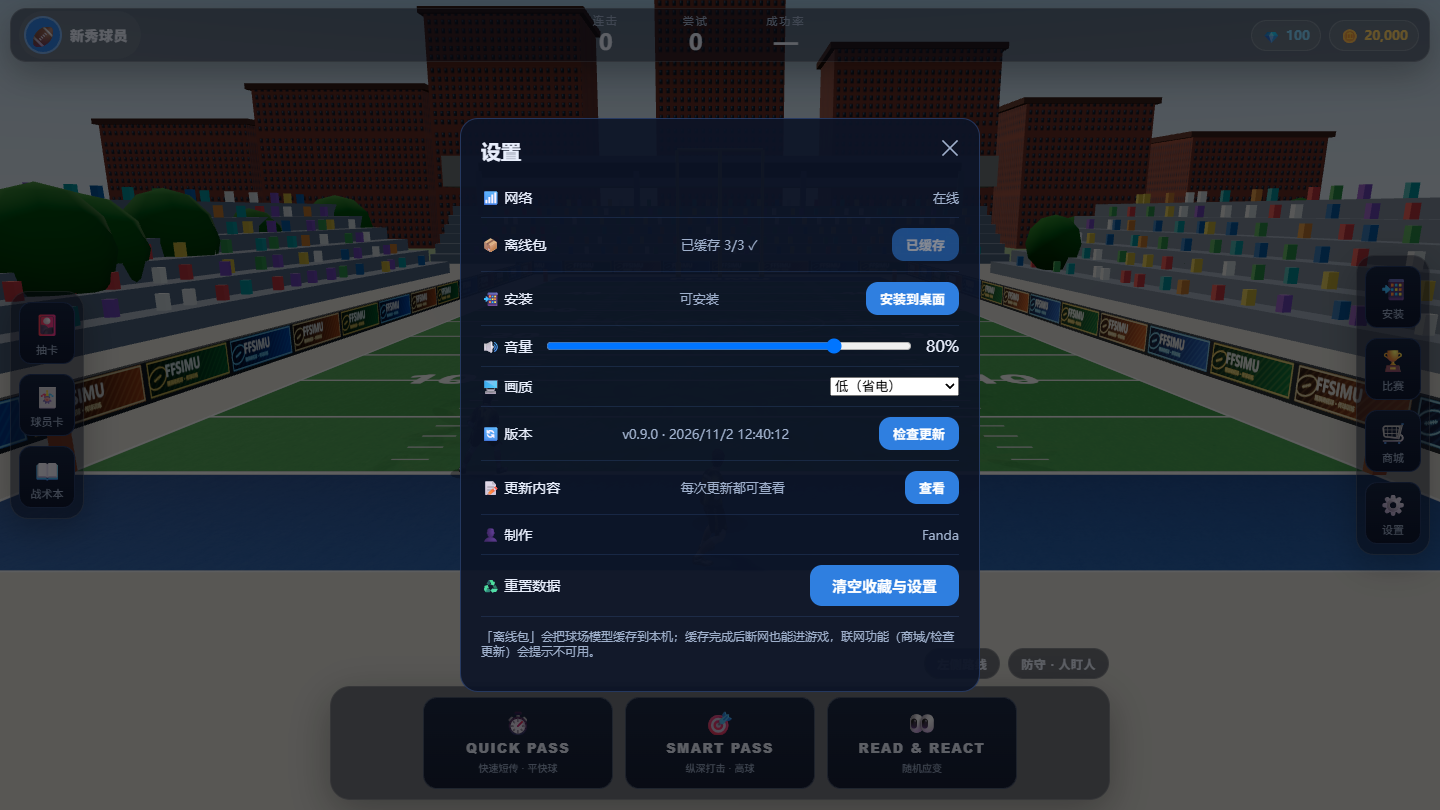
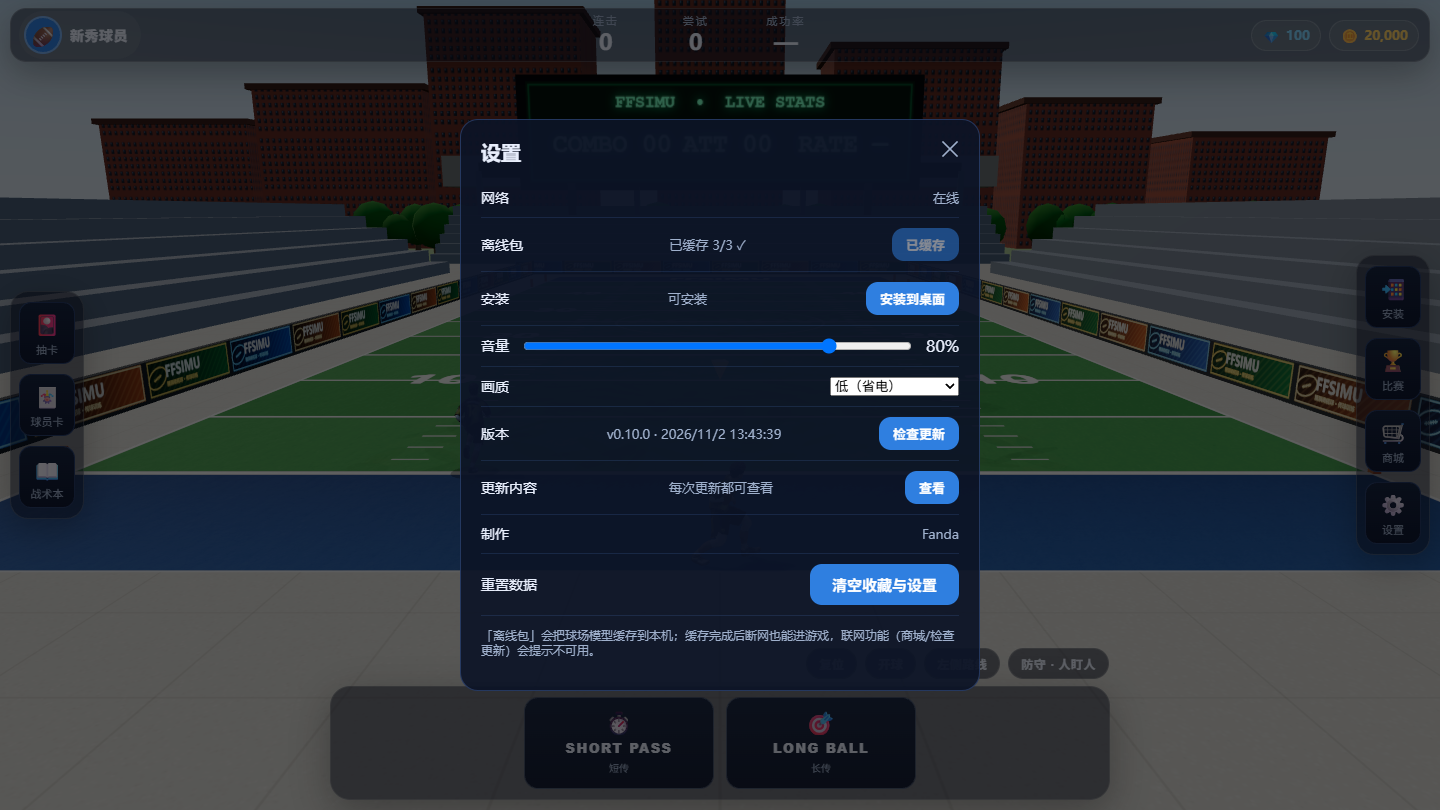
feat: v0.11.0 — 广告牌后移/阴影优化/跑步重采样/锥桶交互/动画定格/路线预览与开球起跑

diff --git a/src/main.ts b/src/main.ts
@@ -197,7 +197,7 @@ function main(): void {
       });
       if (!selectionCone) {
         selectionCone = new THREE.Mesh(
-          new THREE.ConeGeometry(0.17, 0.32, 4),
+          new THREE.ConeGeometry(0.12, 0.22, 4),
           new THREE.MeshStandardMaterial({
             color: 0xffc23a,
             emissive: 0xff8a00,
@@ -207,7 +207,7 @@ function main(): void {
           }),
         );
         selectionCone.rotation.x = Math.PI;
-        selectionCone.position.set(0, 2.62, 0);
+        selectionCone.position.set(0, 2.32, 0);
         selectionCone.castShadow = false;
         rig.group.add(selectionCone);
       }
@@ -320,9 +320,12 @@ function main(): void {
 
   let snapTimer: number | undefined;
   snapBtn.addEventListener('click', () => {
-    // 开球：中锋把球交给 QB，QB 接球后撤观察，4.5s 处停住等传球
-    const a = rigAnims.get(qb);
-    if (!a) return;
+    // 开球：WR 起跑，QB 接球后撤观察，4.5s 处停住等传球
+    if (!controller.snap()) {
+      showToast('先选一个战术，再开球');
+      return;
+    }
+    rigAnims.forEach((a) => (a.mixer.timeScale = 1));
     playClip(qb, 'Pass', { time: 0, timeScale: 1, fade: 0.15 });
     if (handBall) handBall.visible = true;
     window.clearTimeout(snapTimer);
@@ -340,6 +343,9 @@ function main(): void {
   /** 复位：球员回到初始站位并静止（不再一直循环播放待机动画） */
   function resetToStart(): void {
     controller.reset();
+    if (freezeTimer) clearTimeout(freezeTimer);
+    rigAnims.forEach((a) => (a.mixer.timeScale = 1));
+    routePreview.visible = false;
     postCatch.t = 0;
     ballSim.active = false;
     catchTriggered = false;
@@ -399,6 +405,7 @@ function main(): void {
   // ---- 状态机与事件 ----
   let totalComplete = 0;
   let resultTimer: ReturnType<typeof setTimeout> | null = null;
+  let freezeTimer: ReturnType<typeof setTimeout> | null = null;
   const wrSpeed = wrSpeedFor((DEFAULT_WR_CARD.attrs as WRAttrs).SPD);
 
   function updateHud(): void {
@@ -491,15 +498,22 @@ function main(): void {
   /** 限制在围栏内（避免接球后冲出场地） */
   function clampFence(p: THREE.Vector3): void {
     p.x = THREE.MathUtils.clamp(p.x, -15.4, 15.4);
-    p.z = THREE.MathUtils.clamp(p.z, -7.5, 58);
+    p.z = THREE.MathUtils.clamp(p.z, -7.5, 56);
   }
 
-  /** 让跑步动画的步频跟移动速度匹配，减少「滑步/断续」感 */
+  /**
+   * 跑步动画按速度重采样：每个循环前进约 2.6 码，
+   * 由速度反推播放倍率，脚部与地面位移对齐（减少滑步）。
+   */
   function syncRunSpeed(): void {
     const a = rigAnims.get(wr);
     if (!a) return;
     const key = Object.keys(a.actions).find((n) => n.toLowerCase().includes('run'));
-    if (key) a.actions[key].timeScale = THREE.MathUtils.clamp(wrSpeed / 5.2, 0.9, 1.5);
+    if (!key) return;
+    const act = a.actions[key];
+    const dur = act.getClip().duration || 0.73;
+    const STRIDE_LEN = 2.6;
+    act.timeScale = THREE.MathUtils.clamp((wrSpeed / STRIDE_LEN) * dur, 0.8, 2.2);
   }
 
   /** 角度插值：让转身是连续的，而不是瞬间跳转 */
@@ -510,6 +524,38 @@ function main(): void {
     return current + diff * Math.min(1, t);
   }
 
+  // ---- 路线预览（草地上半透明虚线，开球后才消失）----
+  const routePreviewMat = new THREE.LineDashedMaterial({
+    color: 0x9dffb0,
+    dashSize: 0.55,
+    gapSize: 0.3,
+    transparent: true,
+    opacity: 0.9,
+    depthWrite: false,
+  });
+  const routePreview = new THREE.Line(new THREE.BufferGeometry(), routePreviewMat);
+  routePreview.position.y = 0.05;
+  routePreview.visible = false;
+  scene.add(routePreview);
+
+  /** 选中战术后：画路线 + 让 WR 站在起点（静止） */
+  function updateRoutePreview(): void {
+    const play = controller.play;
+    if (!play || controller.state !== GameState.PLAY_CALL) {
+      routePreview.visible = false;
+      return;
+    }
+    const pts = play.route.points.map((p) => new THREE.Vector3(p.x, 0, p.z));
+    routePreview.geometry.dispose();
+    routePreview.geometry = new THREE.BufferGeometry().setFromPoints(pts);
+    routePreview.computeLineDistances();
+    routePreview.visible = true;
+    const p0 = play.route.points[0];
+    wr.group.position.set(p0 ? p0.x : routeSide * 5, 0, p0 ? p0.z : 0);
+    wr.group.rotation.y = 0;
+    playClip(wr, 'Run', { time: 0.08, paused: true, fade: 0.15 });
+  }
+
   const controller = new GameController({
     onStateChange: (state) => {
       const idle = state === GameState.PLAY_CALL || state === GameState.RESULT;
@@ -518,12 +564,17 @@ function main(): void {
       if (state !== GameState.ROUTE) chargeRing.classList.add('hidden');
       if (idle) playCall.closeCards();
     },
+    onSelect: () => {
+      updateRoutePreview();
+    },
     onSnap: (play) => {
       playCall.setSelected(play.id);
       catchTriggered = false;
       wrCatch = false;
       postCatch.t = 0;
       ballSim.active = false;
+      routePreview.visible = false;
+      rigAnims.forEach((a) => (a.mixer.timeScale = 1));
       if (handBall) handBall.visible = true;
       playClip(wr, 'Run', { fade: 0.15 });
     },
@@ -543,6 +594,11 @@ function main(): void {
       if (result.code === 'complete') startPostCatch();
       else startBallBounce(result);
       updateHud();
+      // 传球完成后 2 秒，所有球员动画停止（定格），避免一直跑
+      if (freezeTimer) clearTimeout(freezeTimer);
+      freezeTimer = setTimeout(() => {
+        rigAnims.forEach((a) => (a.mixer.timeScale = 0));
+      }, 2000);
       if (resultTimer) clearTimeout(resultTimer);
       resultTimer = setTimeout(() => controller.nextPlay(), 2600);
     },
@@ -594,6 +650,27 @@ function main(): void {
     onCancel: () => chargeRing.classList.add('hidden'),
   });
 
+  // ---- 锥桶点击：小幅度翻倒 ----
+  const coneMeshes: THREE.Mesh[] = [];
+  scene.traverse((o) => {
+    const m = o as THREE.Mesh;
+    if (m.isMesh && m.userData.cone) coneMeshes.push(m);
+  });
+  const toppling: Array<{ mesh: THREE.Mesh; t: number; dir: number }> = [];
+  const raycaster = new THREE.Raycaster();
+  const ndc = new THREE.Vector2();
+  canvas.addEventListener('pointerup', (e) => {
+    if (controller.state === GameState.ROUTE) return;
+    const rect = canvas.getBoundingClientRect();
+    ndc.set(((e.clientX - rect.left) / rect.width) * 2 - 1, -((e.clientY - rect.top) / rect.height) * 2 + 1);
+    raycaster.setFromCamera(ndc, cameraRig.camera);
+    const hit = raycaster.intersectObjects(coneMeshes, false)[0];
+    if (!hit) return;
+    const mesh = hit.object as THREE.Mesh;
+    if (toppling.some((t) => t.mesh === mesh)) return;
+    toppling.push({ mesh, t: 0, dir: Math.random() < 0.5 ? 1 : -1 });
+  });
+
   // ---- 渲染循环：状态机驱动 + 画面同步 ----
   let runPhase = 0;
   let idlePhase = 0;
@@ -607,10 +684,20 @@ function main(): void {
 
     controller.update(dt);
     rigAnims.forEach((a) => a.mixer.update(dt));
+    // 锥桶翻倒动画
+    for (let i = toppling.length - 1; i >= 0; i--) {
+      const c = toppling[i];
+      c.t += dt;
+      const k = Math.min(c.t / 0.45, 1);
+      const e = 1 - Math.pow(1 - k, 3);
+      c.mesh.rotation.z = c.dir * (Math.PI / 2) * e;
+      c.mesh.position.y = 0.26 - 0.07 * e;
+      if (k >= 1) toppling.splice(i, 1);
+    }
     // 头顶选中三角锥：缓慢旋转 + 轻微浮动
     if (selectionCone) {
       selectionCone.rotation.y += dt * 2.4;
-      selectionCone.position.y = 2.62 + Math.sin(performance.now() / 700) * 0.06;
+      selectionCone.position.y = 2.32 + Math.sin(performance.now() / 700) * 0.05;
     }
     const d = controller.director;
     const moving = !!d && !d.runner.done;

diff --git a/src/core/stateMachine.ts b/src/core/stateMachine.ts
@@ -6,6 +6,8 @@ import { getPlay } from '../data/plays';
 
 export interface ControllerEvents {
   onStateChange?: (state: GameState) => void;
+  /** 选定战术（只做路线预览，未开球） */
+  onSelect?: (play: PlayDef) => void;
   /** 开球：已选定战术，WR 起跑 */
   onSnap?: (play: PlayDef) => void;
   /** 一档结算 */
@@ -20,6 +22,8 @@ export class GameController {
   state: GameState = GameState.PLAY_CALL;
   play: PlayDef | null = null;
   director: PlayDirector | null = null;
+  /** 已选定、等开球时的防守站位 */
+  pendingDefenders?: Vec2[];
   attempts = 0;
   combo = 0;
   bestCombo = 0;
@@ -48,7 +52,7 @@ export class GameController {
     this.setState(GameState.PLAY_CALL);
   }
 
-  /** 选择战术并开球（PLAY_CALL / RESULT → ROUTE）；mirror=-1 时左右镜像路线 */
+  /** 选择战术：只画路线预览，等「开球」后才真正跑 */
   selectPlay(playId: string, defenders?: Vec2[], mirror: 1 | -1 = 1): void {
     if (this.state !== GameState.PLAY_CALL && this.state !== GameState.RESULT) return;
     const base = getPlay(playId);
@@ -62,17 +66,29 @@ export class GameController {
               points: base.route.points.map((p) => ({ x: -p.x, z: p.z })),
             },
           };
+    this.pendingDefenders = defenders;
+    this.lastResult = null;
+    this.ballProgress = 0;
+    this.director = null;
+    this.setState(GameState.PLAY_CALL);
+    this.events.onSelect?.(this.play);
+  }
+
+  /** 开球：WR 开始跑路线（PLAY_CALL → SNAP → ROUTE） */
+  snap(): boolean {
+    if (this.state !== GameState.PLAY_CALL || !this.play) return false;
     this.director = new PlayDirector({
       play: this.play,
       wrAttrs: this.wrAttrs,
       qbAttrs: this.qbAttrs,
-      defenders,
+      defenders: this.pendingDefenders,
     });
     this.lastResult = null;
     this.ballProgress = 0;
     this.setState(GameState.SNAP);
     this.events.onSnap?.(this.play);
     this.setState(GameState.ROUTE);
+    return true;
   }
 
   /** 玩家出手（ROUTE → BALL_FLIGHT） */

diff --git a/src/three/scene.ts b/src/three/scene.ts
@@ -105,10 +105,10 @@ function makeFieldTexture(): THREE.CanvasTexture {
   ctx.globalAlpha = 1;
 
   // ---- 踩踏痕迹：中路和码线附近更秃/更深，像真草被踩过 ----
-  for (let i = 0; i < 1400; i++) {
+  for (let i = 0; i < 450; i++) {
     const z = Math.random() * FIELD_LENGTH;
     const x = (Math.random() - 0.5) * (FIELD_WIDTH * 0.55);
-    ctx.globalAlpha = 0.05 + Math.random() * 0.1;
+    ctx.globalAlpha = 0.04 + Math.random() * 0.07;
     ctx.fillStyle = Math.random() > 0.55 ? '#1d4a1f' : '#4a7a3a';
     ctx.beginPath();
     ctx.ellipse(px(x), pz(z), (0.12 + Math.random() * 0.25) * SX, (0.4 + Math.random() * 0.8) * SY, Math.random() * 3, 0, Math.PI * 2);
@@ -623,7 +623,7 @@ export function buildScene(initialTheme: Theme = 'street'): FieldObjects {
   const sun = new THREE.DirectionalLight(0xffb07a, 4.0);
   sun.position.copy(SUN_DIR).multiplyScalar(140);
   sun.castShadow = true;
-  sun.shadow.mapSize.set(2048, 2048);
+  sun.shadow.mapSize.set(1024, 1024);
   sun.shadow.camera.left = -55;
   sun.shadow.camera.right = 55;
   sun.shadow.camera.top = 80;
@@ -687,7 +687,7 @@ export function buildScene(initialTheme: Theme = 'street'): FieldObjects {
   const daySun = new THREE.DirectionalLight(0xfff4e2, 3.2);
   daySun.position.set(52, 88, 34);
   daySun.castShadow = true;
-  daySun.shadow.mapSize.set(2048, 2048);
+  daySun.shadow.mapSize.set(1024, 1024);
   daySun.shadow.camera.left = -60;
   daySun.shadow.camera.right = 60;
   daySun.shadow.camera.top = 90;

diff --git a/src/three/stadium.ts b/src/three/stadium.ts
@@ -322,14 +322,15 @@ function buildProps(): THREE.Group {
   ];
   for (const [x, z] of spots) {
     const fallen = Math.random() < 0.38;
-    const cone = new THREE.Mesh(new THREE.ConeGeometry(0.35, 1, 12), coneMat);
+    const cone = new THREE.Mesh(new THREE.ConeGeometry(0.19, 0.52, 12), coneMat);
+    cone.userData.cone = true;
     if (fallen) {
       // 倒下：绕 Z 轴放平 + 随机朝向，位置略微散开
       cone.rotation.z = (Math.random() < 0.5 ? 1 : -1) * (Math.PI / 2);
       cone.rotation.y = Math.random() * Math.PI * 2;
-      cone.position.set(x + (Math.random() - 0.5) * 1.4, 0.33, z + (Math.random() - 0.5) * 1.4);
+      cone.position.set(x + (Math.random() - 0.5) * 1.4, 0.2, z + (Math.random() - 0.5) * 1.4);
     } else {
-      cone.position.set(x, 0.5, z);
+      cone.position.set(x, 0.26, z);
       cone.rotation.y = Math.random() * Math.PI;
     }
     group.add(cone);

diff --git a/src/three/campus.ts b/src/three/campus.ts
@@ -8,10 +8,10 @@ import { makeAdTexture } from './ads';
  * 相机走廊仍然留空：看台/建筑都在 |x| > 18 或 z > 60。
  */
 
-const BOARD_X = HALF_WIDTH + 2.6; // 15.95
+const BOARD_X = HALF_WIDTH + 5.2; // 18.55：离草地更远，球员不会贴到板上
 // 近端不做广告牌：相机在近端后方，会看到板子背面挡住画面
 const BOARD_Z0 = -28;
-const BOARD_Z1 = 58;
+const BOARD_Z1 = 60;
 const BOARD_H = 1.15;
 
 function pushBox(

diff --git a/src/style.css b/src/style.css
@@ -237,7 +237,7 @@ body {
 #throw-hint {
   position: absolute;
   left: 50%;
-  bottom: 122px;
+  bottom: 176px;
   transform: translateX(-50%);
   display: flex;
   gap: 16px;
